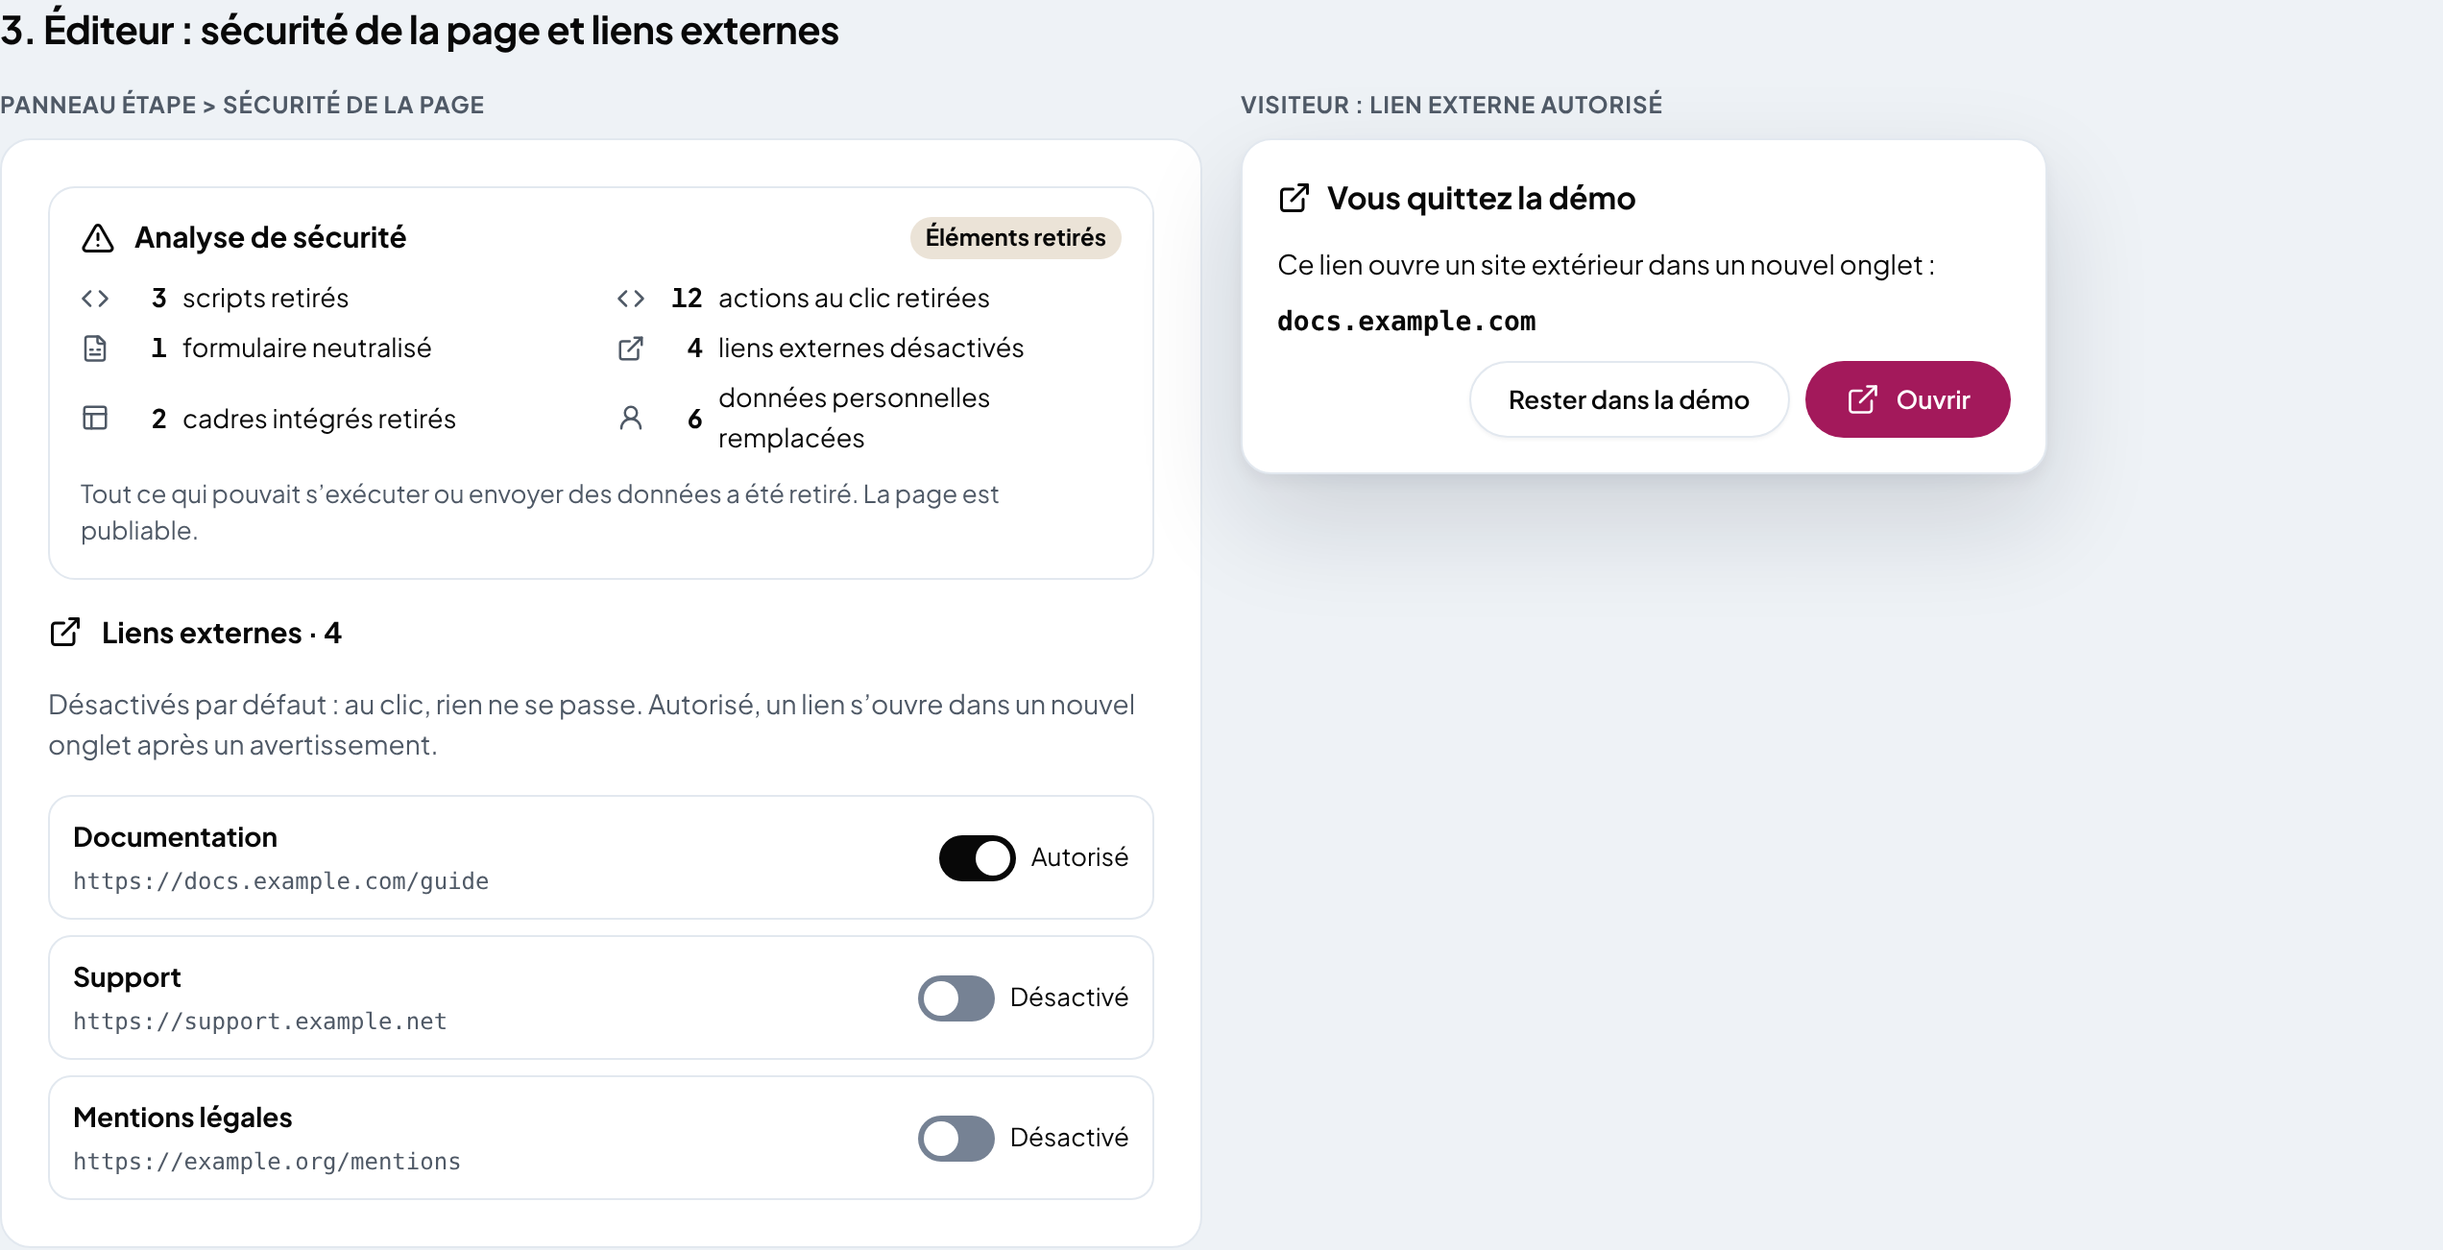
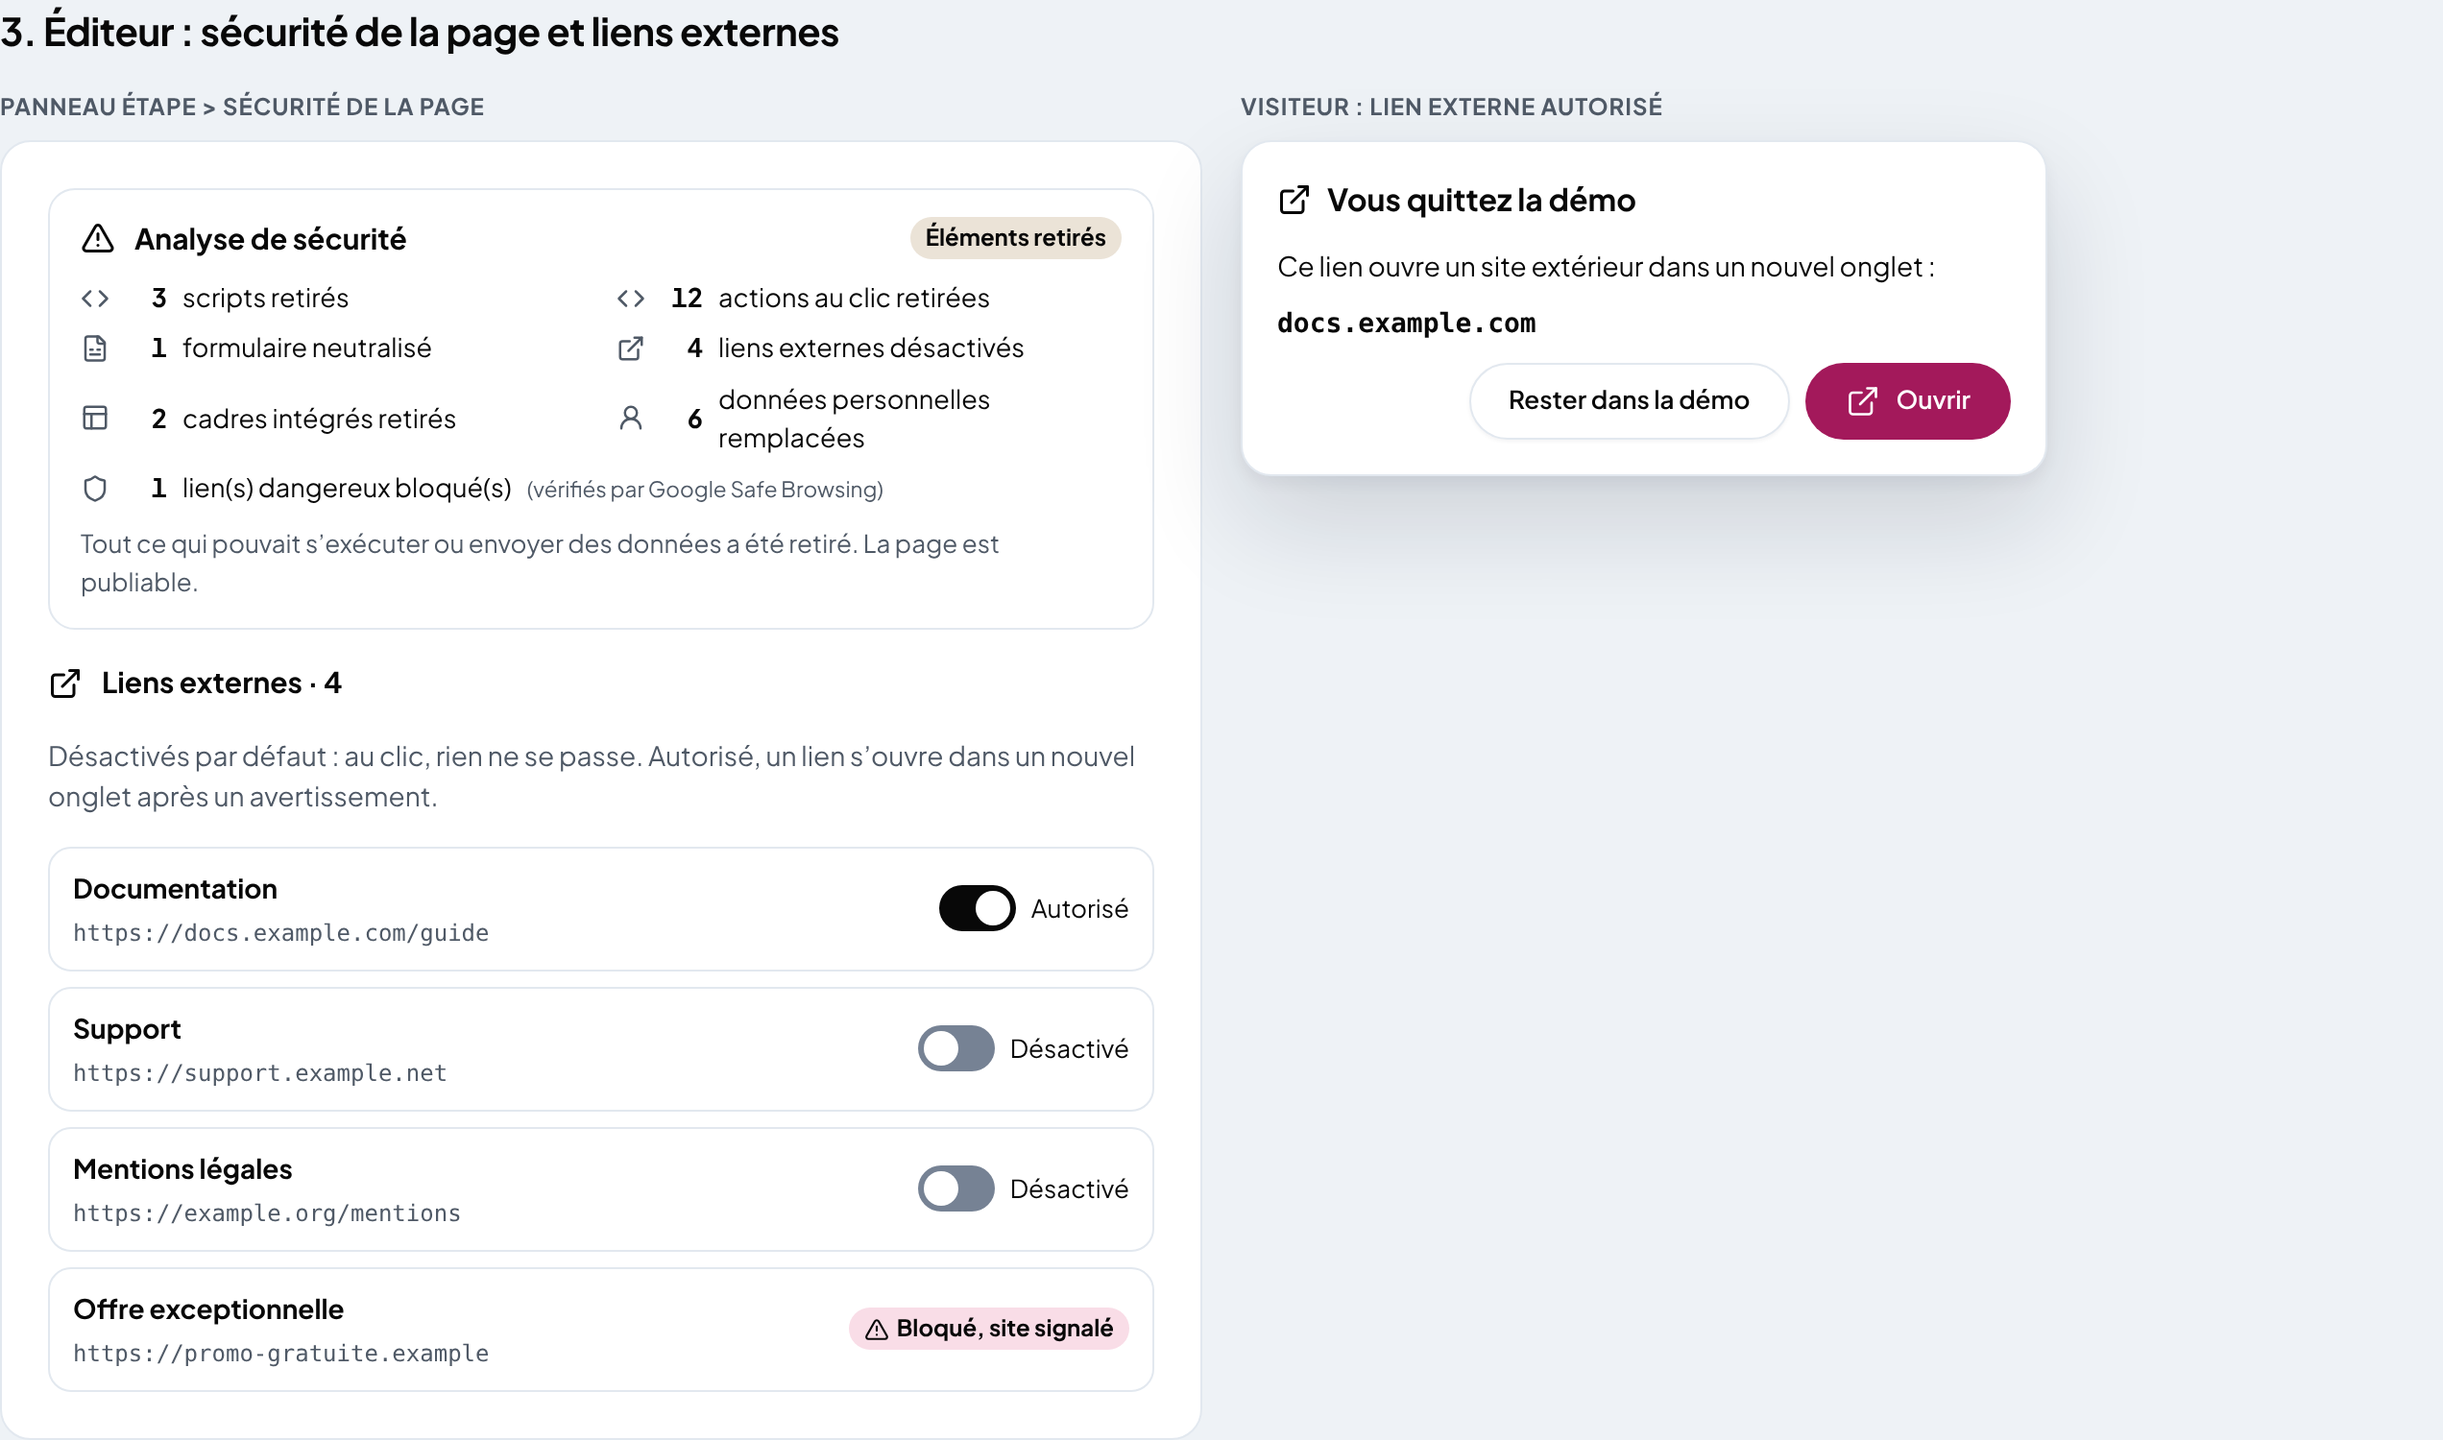
L49 : Google Safe Browsing (liens dangereux bloqués, vérification indisponible)
Vérification côté serveur à la réception et à la publication ; ligne « liens dangereux bloqués »
dans le rapport ; badge « Bloqué, site signalé » non autorisable ; « Vérification Google
indisponible » et statut « Vérification partielle » ; API par préfixes de hachage recommandée.

Claude-Session: https://claude.ai/code/session_016yn81XNDaqi4emq7ho6CNv

diff --git a/docs/ux/maquettes/refonte/l49-securite-html.html b/docs/ux/maquettes/refonte/l49-securite-html.html
@@ -76,6 +76,7 @@
     <ul class="s49-notes">
       <li>Le réglage s'applique partout : l'app (création), l'extension (capture) et le serveur (réception des pages). Le serveur refuse une page hors réglage, même envoyée autrement.</li>
       <li>Rapport : chiffres réels de l'assainissement, jamais estimés. « Page sûre » s'il n'y avait rien d'actif à retirer ; « Éléments retirés » sinon. Les deux sont publiables : tout ce qui pouvait s'exécuter a été retiré.</li>
+      <li>Google Safe Browsing (côté serveur) : liens dangereux comptés dans le rapport, badge « Bloqué, site signalé », impossibles à autoriser ; « Vérification Google indisponible » si le service ne répond pas.</li>
       <li>Liens externes : désactivés par défaut ; un éditeur peut en autoriser un, qui s'ouvre alors dans un nouvel onglet après un avertissement « Vous quittez la démo ». Formulaires : toujours neutralisés, sans option.</li>
       <li>Mention « Capturez uniquement des logiciels que vous êtes autorisé à reproduire. » au lancement de la capture HTML, à la création et dans le réglage.</li>
     </ul>
@@ -109,14 +110,14 @@
       <label class="s49-opt${mode === 'off' ? ' is-on' : ''}"><input type="radio" name="${g}" ${mode === 'off' ? 'checked' : ''}><span><b>Désactivées</b><small>Captures d’écran uniquement. Les démos HTML et les Sandbox existants restent lisibles, sans nouvelle page.</small></span></label>
     </fieldset>${NOTE}<div class="s49-foot"><span>Appliqué par l’app, l’extension et le serveur.</span><button class="fd-btn fd-btn--primary" type="button">Enregistrer</button></div></section>`; };
   document.querySelector('[data-slot="set"]').innerHTML = lab('Seulement sur ces domaines', setting('dom')) + lab('Désactivées', setting('off'));
-  const rep = (warn, n) => `<div class="s49-rep" role="group" aria-label="Analyse de sécurité"><div class="s49-rep__h">${I(warn ? 'alert' : 'check')}<b>Analyse de sécurité</b><span class="s49-tag ${warn ? 's49-warn' : 's49-ok'}">${warn ? 'Éléments retirés' : 'Page sûre'}</span></div>
-    <ul>${(n || [3, 12, 1, 4, 2, 6]).map((v, i) => `<li>${I(['code', 'code', 'form', 'ext', 'frame', 'user'][i])}<b>${v}</b>${['scripts retirés', 'actions au clic retirées', 'formulaire neutralisé', 'liens externes désactivés', 'cadres intégrés retirés', 'données personnelles remplacées'][i]}</li>`).join('')}</ul>
+  const rep = (warn, n, dang = 1, sbOff = false) => `<div class="s49-rep" role="group" aria-label="Analyse de sécurité"><div class="s49-rep__h">${I(warn ? 'alert' : 'check')}<b>Analyse de sécurité</b><span class="s49-tag ${warn ? 's49-warn' : 's49-ok'}">${warn ? 'Éléments retirés' : 'Page sûre'}</span></div>
+    <ul>${(n || [3, 12, 1, 4, 2, 6]).map((v, i) => `<li>${I(['code', 'code', 'form', 'ext', 'frame', 'user'][i])}<b>${v}</b>${['scripts retirés', 'actions au clic retirées', 'formulaire neutralisé', 'liens externes désactivés', 'cadres intégrés retirés', 'données personnelles remplacées'][i]}</li>`).join('')}<li style="grid-column:1/-1">${I('shield')}${sbOff ? '<span style="font-weight:600">Vérification Google indisponible</span><small style="color:var(--fd-color-text-muted)">· dernière tentative à 16 h 02, nouvelle vérification à la publication</small>' : `<b>${dang}</b>lien(s) dangereux bloqué(s) <small style="color:var(--fd-color-text-muted)">(vérifiés par Google Safe Browsing)</small>`}</li></ul>
     <p style="margin:0;font-size:13px;color:var(--fd-color-text-muted)">${warn ? 'Tout ce qui pouvait s’exécuter ou envoyer des données a été retiré. La page est publiable.' : 'Rien d’actif à retirer sur cette page.'}</p></div>`;
   const pg = (t, u, warn) => `<li class="s49-pg"><i></i><span><b>${t}</b><small>${u}</small></span><span class="s49-tag ${warn ? 's49-warn' : 's49-ok'}">${I(warn ? 'alert' : 'check')}${warn ? 'Éléments retirés' : 'Page sûre'}</span></li>`;
   document.querySelector('[data-slot="ext"]').innerHTML = lab('Vérification de la capture HTML (extension)', `<section class="s49-card"><h3>${I('shield')}Vérifiez avant l’envoi</h3>${rep(true)}<ul class="s49-pages">${pg('Accueil', 'app.example.com/', true)}${pg('Usagers', 'app.example.com/usagers', true)}${pg('Aide', 'app.example.com/aide', false)}</ul><div class="s49-foot"><span>Rien n’est envoyé avant « Envoyer ».</span><button class="fd-btn" type="button">Supprimer</button><button class="fd-btn fd-btn--primary" type="button">Envoyer 3 pages</button></div></section>`) +
-    lab('Détail d’une page sûre', `<section class="s49-card">${rep(false, [0, 0, 0, 0, 0, 2])}</section>`);
+    lab('Détail d’une page sûre', `<section class="s49-card">${rep(false, [0, 0, 0, 0, 0, 2], 0)}${rep(false, [0, 0, 0, 0, 0, 2], 0, true).replace('s49-tag s49-ok">Page sûre', 's49-tag">Vérification partielle').replace('Rien d’actif à retirer sur cette page.', 'Rien d’actif à retirer ; liens non vérifiés par Google pour l’instant.')}</section>`);
   const lk = (t, u, on) => `<div class="s49-lk"><b>${t}</b><small>${u}</small><span class="s49-sw"><span class="s49-tg${on ? ' on' : ''}" role="switch" aria-checked="${on}" tabindex="0" aria-label="Autoriser le lien ${t}"></span>${on ? 'Autorisé' : 'Désactivé'}</span></div>`;
-  document.querySelector('[data-slot="ed"]').innerHTML = lab('Panneau Étape > Sécurité de la page', `<section class="s49-card">${rep(true)}<h3 style="font-size:15px">${I('ext')}Liens externes · 4</h3><p>Désactivés par défaut : au clic, rien ne se passe. Autorisé, un lien s’ouvre dans un nouvel onglet après un avertissement.</p><div class="s49-ext">${lk('Documentation', 'https://docs.example.com/guide', true)}${lk('Support', 'https://support.example.net', false)}${lk('Mentions légales', 'https://example.org/mentions', false)}</div></section>`) +
+  document.querySelector('[data-slot="ed"]').innerHTML = lab('Panneau Étape > Sécurité de la page', `<section class="s49-card">${rep(true)}<h3 style="font-size:15px">${I('ext')}Liens externes · 4</h3><p>Désactivés par défaut : au clic, rien ne se passe. Autorisé, un lien s’ouvre dans un nouvel onglet après un avertissement.</p><div class="s49-ext">${lk('Documentation', 'https://docs.example.com/guide', true)}${lk('Support', 'https://support.example.net', false)}${lk('Mentions légales', 'https://example.org/mentions', false)}<div class="s49-lk"><b>Offre exceptionnelle</b><small>https://promo-gratuite.example</small><span class="s49-sw"><span class="s49-tag" style="background:color-mix(in srgb,var(--fd-color-danger,#b4234b) 14%,var(--fd-color-surface))">${I('alert')}Bloqué, site signalé</span></span></div></div></section>`) +
     lab('Visiteur : lien externe autorisé', `<div class="s49-ext-pop" role="dialog" aria-labelledby="lv"><b id="lv" style="display:flex;gap:8px;align-items:center;font-size:16px">${I('ext')}Vous quittez la démo</b><p style="margin:0;font-size:14px">Ce lien ouvre un site extérieur dans un nouvel onglet :</p><p style="margin:0;font:600 14px ui-monospace,monospace">docs.example.com</p><div style="display:flex;gap:8px;justify-content:flex-end"><button class="fd-btn" type="button">Rester dans la démo</button><button class="fd-btn fd-btn--primary" type="button">${I('ext')}Ouvrir</button></div></div>`);
   const typeOff = `<section class="s49-card"><h3>Nouvelle démo · Type de contenu</h3><div style="display:grid;grid-template-columns:repeat(3,1fr);gap:10px">${[['img', 'Démo par captures', 0], ['code', 'Démo HTML', 1], ['map', 'Sandbox', 1]].map(([i, t, off]) => `<div style="padding:14px;border-radius:14px;border:1px solid var(--fd-color-border);${off ? 'opacity:.6' : 'border-color:var(--fd-color-primary);box-shadow:inset 0 0 0 1px var(--fd-color-primary)'}" ${off ? 'aria-disabled="true"' : ''}><div style="display:flex;gap:8px;align-items:center;font-weight:700">${I(i)}${t}</div>${off ? '<small style="display:block;margin-top:6px;font-size:12.5px;color:var(--fd-color-text-muted)">Désactivé par un admin (Sécurité &gt; Captures HTML)</small>' : ''}</div>`).join('')}</div></section>`;
   const extOff = `<section class="s49-card" style="max-width:380px"><h3 style="font-size:15px">${I('code')}Capture HTML</h3><div class="s49-note">${I('lock')}<span><b>Non autorisée sur ce site</b>crm.partenaire.example n’est pas dans la liste des domaines de votre espace. Utilisez la capture d’écran, ou demandez à un admin.</span></div><div style="display:flex;gap:8px"><button class="fd-btn fd-btn--primary" type="button">${I('img')}Capture d’écran</button><button class="fd-btn" type="button" aria-disabled="true" style="opacity:.6">${I('code')}Capture HTML</button></div></section>`;

diff --git a/docs/ux/specs/l49-securite-html.md b/docs/ux/specs/l49-securite-html.md
@@ -55,7 +55,7 @@
 
 - **Production** :
   - `sanitizeDom` (extension) et `sanitizePage` (serveur) **renvoient des compteurs**, en plus du HTML assaini ;
-  - le serveur recalcule et enregistre **ses** compteurs dans `steps.html_meta.security` : `{ scripts, handlers, frames, forms, externalLinks, piiReplaced, other, analyzedAt }` ;
+  - le serveur recalcule et enregistre **ses** compteurs dans `steps.html_meta.security` : `{ scripts, handlers, frames, forms, externalLinks, dangerousLinks, piiReplaced, other, safeBrowsing: 'ok' | 'unavailable', analyzedAt }` ;
   - l'extension affiche les siens avant l'envoi ; l'éditeur affiche ceux du serveur ;
   - aucun chiffre n'est estimé.
 
@@ -69,9 +69,13 @@
 | `piiReplaced` | {n} donnée(s) personnelle(s) remplacée(s) | remplacements « Xxxxxx » |
 | `other` | {n} autre(s) élément(s) retiré(s) | `base`, `link`, `meta http-equiv`, `srcdoc`, CSS dangereux (affiché seulement s'il est différent de 0) |
 
+| `dangerousLinks` | Liens dangereux bloqués : {n} (vérifiés par Google Safe Browsing) | liens de la page signalés par Google Safe Browsing (§4.1) ; ligne toujours affichée, même à 0 |
+
+- **Vérification indisponible** : si Google Safe Browsing n'a pas répondu (clé absente, quota atteint, délai dépassé), la ligne devient « Vérification Google indisponible », avec l'icône `circle-alert` et la date de la dernière tentative. Le serveur refait la vérification à la publication.
 - **Statut** :
-  - **« Page sûre »** (bouclier coché, fond `success` à 14 %) si `scripts`, `handlers`, `frames`, `forms` et `other` valent 0 ;
+  - **« Page sûre »** (bouclier coché, fond `success` à 14 %) si `scripts`, `handlers`, `frames`, `forms`, `other` et `dangerousLinks` valent 0 ;
   - sinon **« Éléments retirés »** (`triangle-alert`, fond `warning` à 16 %).
+  - si rien n'a été retiré mais que Google Safe Browsing n'a pas répondu : **« Vérification partielle »** (`circle-alert`, fond `surface-sunken`) au lieu de « Page sûre ».
   - Phrase : « Rien d'actif à retirer sur cette page. » ou « Tout ce qui pouvait s'exécuter ou envoyer des données a été retiré. La page est publiable. »
   - Le statut est toujours écrit, jamais porté par la couleur seule.
   - Les deux statuts sont publiables : « Éléments retirés » informe, il ne bloque pas.
@@ -97,6 +101,24 @@
   - L'ouverture se fait par `window.open(url, '_blank', 'noopener,noreferrer')` depuis le lecteur. Le cadre garde son `sandbox` sans popups.
   - Le domaine affiché vient de l'adresse réelle, jamais du texte du lien : c'est la protection contre l'hameçonnage.
 - **Données** : `steps.html_ops` reçoit une opération `{ op: 'extlink', sel, allow: true }` par lien autorisé.
+
+### 4.1 Liens dangereux (Google Safe Browsing)
+
+- **Qui vérifie** : le **serveur** seulement (`html-ingest`, puis de nouveau à la publication), avec la clé fournie par le client.
+  - La clé reste un secret côté serveur, jamais dans l'extension, l'app ou le lecteur.
+  - Méthode recommandée : l'API par préfixes de hachage (Update API), pour ne pas envoyer les adresses complètes à un tiers. À valider avec le DPO ; à mentionner au registre des traitements.
+- **Ce qui est vérifié** : tous les liens de la page, internes et externes, ainsi que les adresses d'images et de styles conservées.
+- **Lien signalé** :
+  - il est désactivé et **ne peut pas être autorisé** ;
+  - badge « Bloqué, site signalé » (icône `shield-alert`, fond `danger` à 14 %, texte écrit) à la place de l'interrupteur ;
+  - l'interrupteur est remplacé par ce texte, et non grisé ;
+  - le lien est compté dans `dangerousLinks`.
+- **Côté visiteur** : un lien signalé ne fait rien. Aucune ouverture, même si un ancien réglage l'avait autorisé : la vérification de la publication l'emporte.
+- **Re-vérification** : à chaque publication. Si un lien déjà autorisé est signalé plus tard, son autorisation est retirée, et une alerte apparaît dans l'éditeur : « Le lien {texte} mène à un site signalé : il a été bloqué. »
+- **Indisponibilité** :
+  - les liens restent désactivés par défaut ;
+  - un lien déjà autorisé reste autorisé ;
+  - l'autorisation d'un **nouveau** lien est refusée tant que la vérification n'a pas répondu, avec la raison « Vérification Google indisponible, réessayez plus tard ».
 
 ## 5. Formulaires
 
@@ -127,4 +149,8 @@
 - **Création** : avec `disabled`, Démo HTML et Sandbox sont visibles, désactivés, avec la raison.
 - **Mention** présente aux 4 endroits.
 - **Lecteur** : un lien externe non autorisé ne fait rien ; un formulaire capturé ne s'envoie jamais (test de `submit`).
+- **Google Safe Browsing** :
+  - avec l'adresse de test officielle de Safe Browsing, le lien est bloqué, porte le badge « Bloqué, site signalé », ne peut pas être autorisé, et le rapport compte 1 lien dangereux ;
+  - clé absente : « Vérification Google indisponible » ;
+  - aucune adresse complète dans les journaux du serveur.
 - Clair, sombre, 390 px (réglage et rapport).
